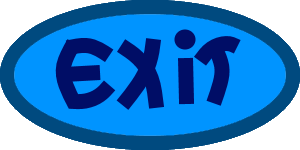
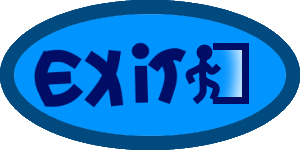
добавлена смена локаций, а также начало игры на той же локации, что и в меню. Переработана кнопка exit

Changed region(s): [[0.09, 0.1867, 0.84, 0.7467]]

diff --git a/CUBE.py b/CUBE.py
@@ -11,15 +11,20 @@ from button import Button
 pg.init()
 
 # цвета
-city = (230,250,255)
-reef = (0,100,100)
-forest = (50, 125, 0)
-mushroom_forest = (50,10,50)
 red = (255, 0, 0)
 dark_blue = (0, 13, 119)
-background_colour = forest
 pause_bg_color = (0, 0, 0)
 transparency = 200
+
+# локации
+city = (230,250,255)
+reef = (0,100,100)
+forest = pg.image.load('Images/forest_background.png')
+mushroom_forest = pg.image.load('Images/mushroom_forest_background.png')
+locations = [forest,mushroom_forest]
+end_loc = len(locations)
+background_colour = forest
+menu_loc = 0
 
 # создание окна
 WIDTH = 500
@@ -77,7 +82,7 @@ game_over = False
 
 # смена локации
 CHANGE_LOCATION = pg.USEREVENT + 1
-pg.time.set_timer(CHANGE_LOCATION, 5000)
+pg.time.set_timer(CHANGE_LOCATION, 1000)
 
 # меню
 while opening_menu:
@@ -97,10 +102,14 @@ while opening_menu:
 
         # рандомные цвета
         if event.type == CHANGE_LOCATION:
-            background_colour = (random.randint(0,255),random.randint(0,255),random.randint(0,255))
+            if menu_loc < end_loc:
+                background_colour = locations[menu_loc]
+                menu_loc += 1
+            else:
+                menu_loc = 0
 
     # отрисовка
-    DISPLAYSURF.fill(background_colour)
+    DISPLAYSURF.blit(background_colour,(0,0))
     start_button.blit(DISPLAYSURF)
 
     # обновление экрана
@@ -227,7 +236,7 @@ while running:
     score_surf = score_msg.render(f'{score}', True, score_color)
 
     # отрисовка
-    DISPLAYSURF.fill(background_colour)
+    DISPLAYSURF.blit(background_colour,(0,0))
     hero.blit_me(DISPLAYSURF)
     for enemy_rect in enemies_rects:
         DISPLAYSURF.blit(enemy_pic, enemy_rect)

diff --git a/hero.py b/hero.py
@@ -2,7 +2,7 @@ import pygame
 
 
 class Hero():
-    def __init__(self, hero_x=150, hero_y=450, step=12, WIDTH=500):
+    def __init__(self, hero_x=150, hero_y=610, step=12, WIDTH=500):
         self.hero_image = pygame.image.load("Images/AXE CUBE 70x70.png")
         self.WIDTH = WIDTH
         self.rect = self.hero_image.get_rect()
